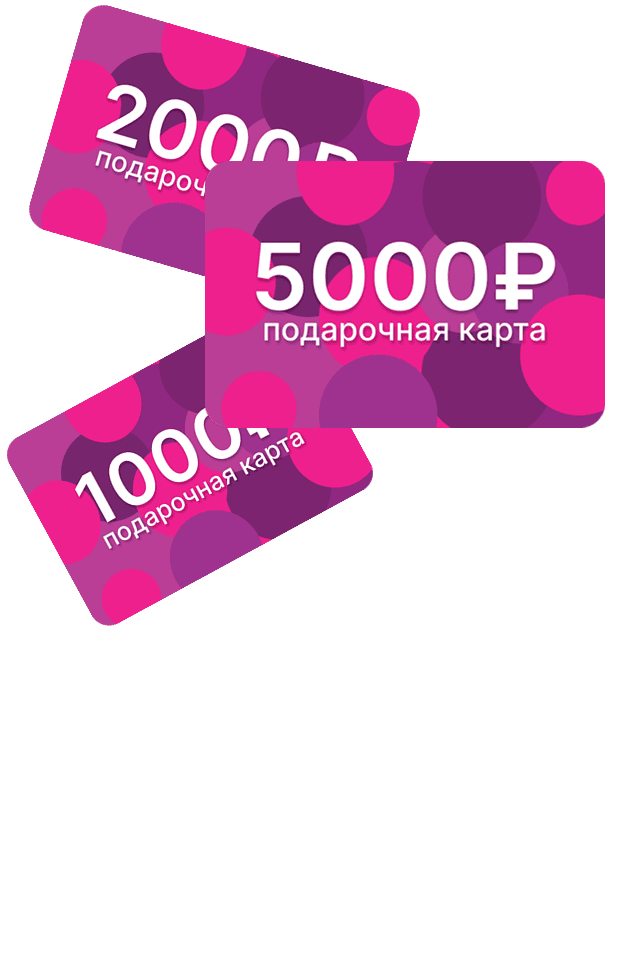
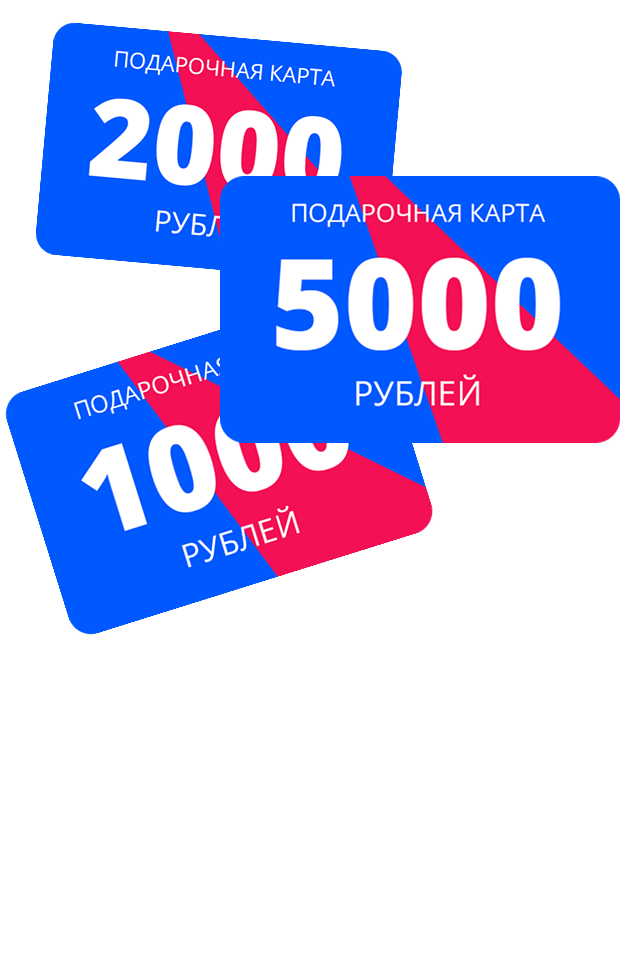
Add files via upload

diff --git a/index.html b/index.html
@@ -1,5 +1,5 @@
 <!DOCTYPE html >
-<html lang="ru" data-game="wheel" data-theme="wb">
+<html lang="ru" data-game="wheel" data-theme="oz">
 <head>
     <meta charset="UTF-8">
     <meta name="viewport" content="width=device-width, initial-scale=1.0">
@@ -20,8 +20,8 @@
   --black: #000;
   --text: #1E2936;
   --header-bg: linear-gradient(120.02deg, #9333EA 11.59%, #FF41D5 90.85%);
-  --button-bg: linear-gradient(139deg, #FA2EB2, #FD9027);
-  --button-bgActive: linear-gradient(139deg, #fa2eb3a9, #fd8e27a0);
+  --button-bg: linear-gradient(139deg, #F31055, #F01057);
+  --button-bgActive: linear-gradient(139deg, #F31055a9, #F01057a0);
 }
 
 [data-theme=wb] {
@@ -31,7 +31,7 @@
   --red: #FF0049;
   --green: #21A65D;
   --gray: #A5A9B4;
-  --gradient: linear-gradient(0deg, #9333EA -10.41%, #FF41D5 75.85%);
+  --gradient: linear-gradient(25deg, #9333EA -10.41%, #FF41D5 75.85%);
 }
 
 [data-theme=oz] {
@@ -41,7 +41,7 @@
   --red: #EA135E;
   --green: #10C44C;
   --gray: #8F8FA7;
-  --gradient: linear-gradient(90deg, #2359F4 0%, #14348E 100%);
+  --gradient: linear-gradient(30deg, #3868fc 0%, #2a49ff 100%);
 }
 
 
@@ -68,7 +68,7 @@
 }
 
 .wrap .main .finish{
-    background: linear-gradient(#7133a0, #9e43fc);
+    background: linear-gradient(#4876e7, #8e54e9);
     min-height: 90vh;
     display: flex;
     flex-direction: column;
@@ -130,7 +130,7 @@
 }
 
 .startSection_wrapper p span{
-    background: #FF8D2A;
+    background: #F31055;
     border-radius: 1rem;
     padding-left: 1rem;
     padding-right: 1rem;
@@ -282,6 +282,7 @@
 }
 .infoBlock_data{
     color: #6A6A6A;
+    margin-bottom: 12px;
 }
 
 .infoBlock_header{
@@ -294,7 +295,7 @@
 }
 
 .infoBlock_text p span{
-  background: linear-gradient(45deg, #fd5e2c, #f705c9);
+  background: linear-gradient(139deg, #F31055, #F01057);
   background-clip: text;
   -webkit-background-clip: text; 
   color: transparent;
@@ -610,6 +611,21 @@ justify-content: space-between;
     .wrap .main .finish {
     justify-content: flex-start;
 }
+}
+
+@media(max-width: 600px) and (max-height: 800px){ 
+    .wrap .main .finish {
+    justify-content: flex-start;
+}
+}
+
+@media(max-width: 600px) and (min-height: 800px){ 
+    .startSection_text{
+        margin-bottom: 10rem;
+    }
+    .infoBlock{
+        margin-bottom: 5rem;
+    }
 }
 
 .overlay {
@@ -947,11 +963,11 @@ justify-content: space-between;
             <div class="watchImg">
                 <img width="100%" height="100%" src="./assets/cl.PNG" alt="watch" />
             </div>
-            <div class="modal-title">Сертификат Вайлдберрис почти Ваш</div>
+            <div class="modal-title">Сертификат Озон почти Ваш</div>
             <p class="modal-text">1. Нажмите <b>"Получить"</b> и пройдите быструю регистрацию</p>
             <p class="modal-text">2. Важно! <b>Оплатите 1 рубль</b> для 5-дневного доступа к аналитике</p>
             <p class="modal-text">3. <b>Подтвердите</b> участие и дождитесь розыгрыша</p>
-            <p class="modal-text">4. <b>Получите 1000Р</b> после регистрации для новичков</p>
+            <p class="modal-text">4. <b style="color:#005BFF;">Получите 1000Р</b> после регистрации для новичков</p>
             <br>
             <p class="timerText">Предложение действительно в течение <b class="timer" style="color: red;">05:00</b></p>
             <a class="modal-btn" href="{url}">ПОЛУЧИТЬ</a>
